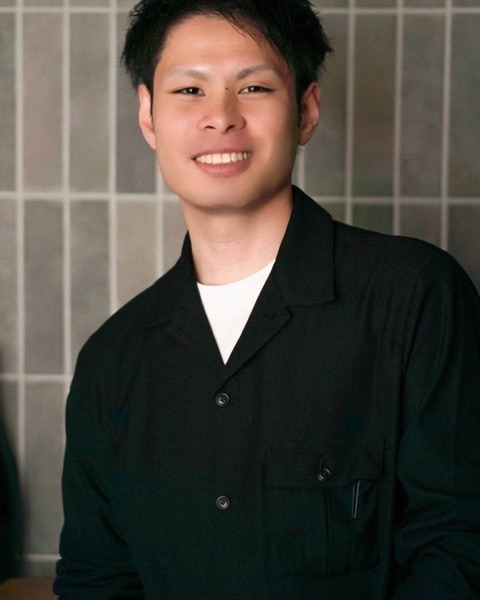
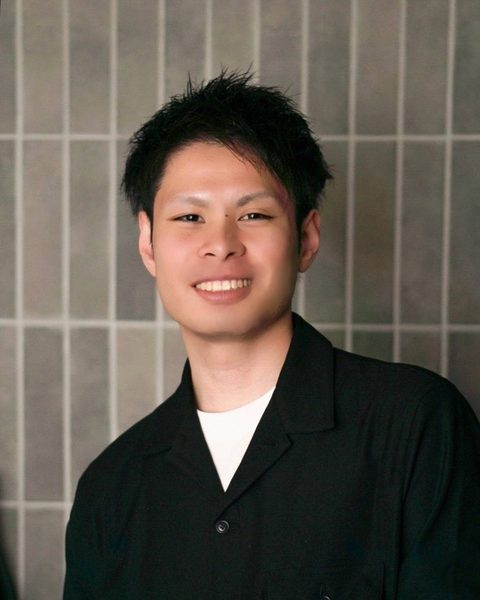
welcome: fix portrait crop (top of head was clipped by sips center-crop)

diff --git a/public/welcome.html b/public/welcome.html
@@ -113,7 +113,7 @@ footer{text-align:center;font-family:var(--sans);font-weight:300;font-size:11px;
   <p class="l-fr">Les cocktails s'appuient sur Hiroshima même : gin SAKURAO distillé à Hatsukaichi, whisky Togouchi, citrons locaux. Venez pour un verre après le dîner ; le comptoir fait le reste.</p><p class="l-ko">칵테일은 히로시마 그 자체로 만듭니다. 하쓰카이치에서 증류한 SAKURAO 진, 도고우치 위스키, 히로시마 레몬. 저녁 식사 후 한 잔 하러 오세요. 나머지는 카운터가 알아서 합니다.</p><p class="l-zh">調酒以廣島本身為基底：廿日市蒸餾的SAKURAO琴酒、戶河內威士忌、在地檸檬。晚餐後來一杯，其餘交給吧檯。</p>
 
   <div class="portrait">
-    <img src="/images/miyake.jpg" alt="Yuta Miyake, manager of Bar VUELTA" width="480" height="600" loading="lazy">
+    <img src="/images/miyake.jpg?v=2" alt="Yuta Miyake, manager of Bar VUELTA" width="480" height="600" loading="lazy">
     <p class="cap">
       <b>
         <span class="l-en">Yuta Miyake</span>
